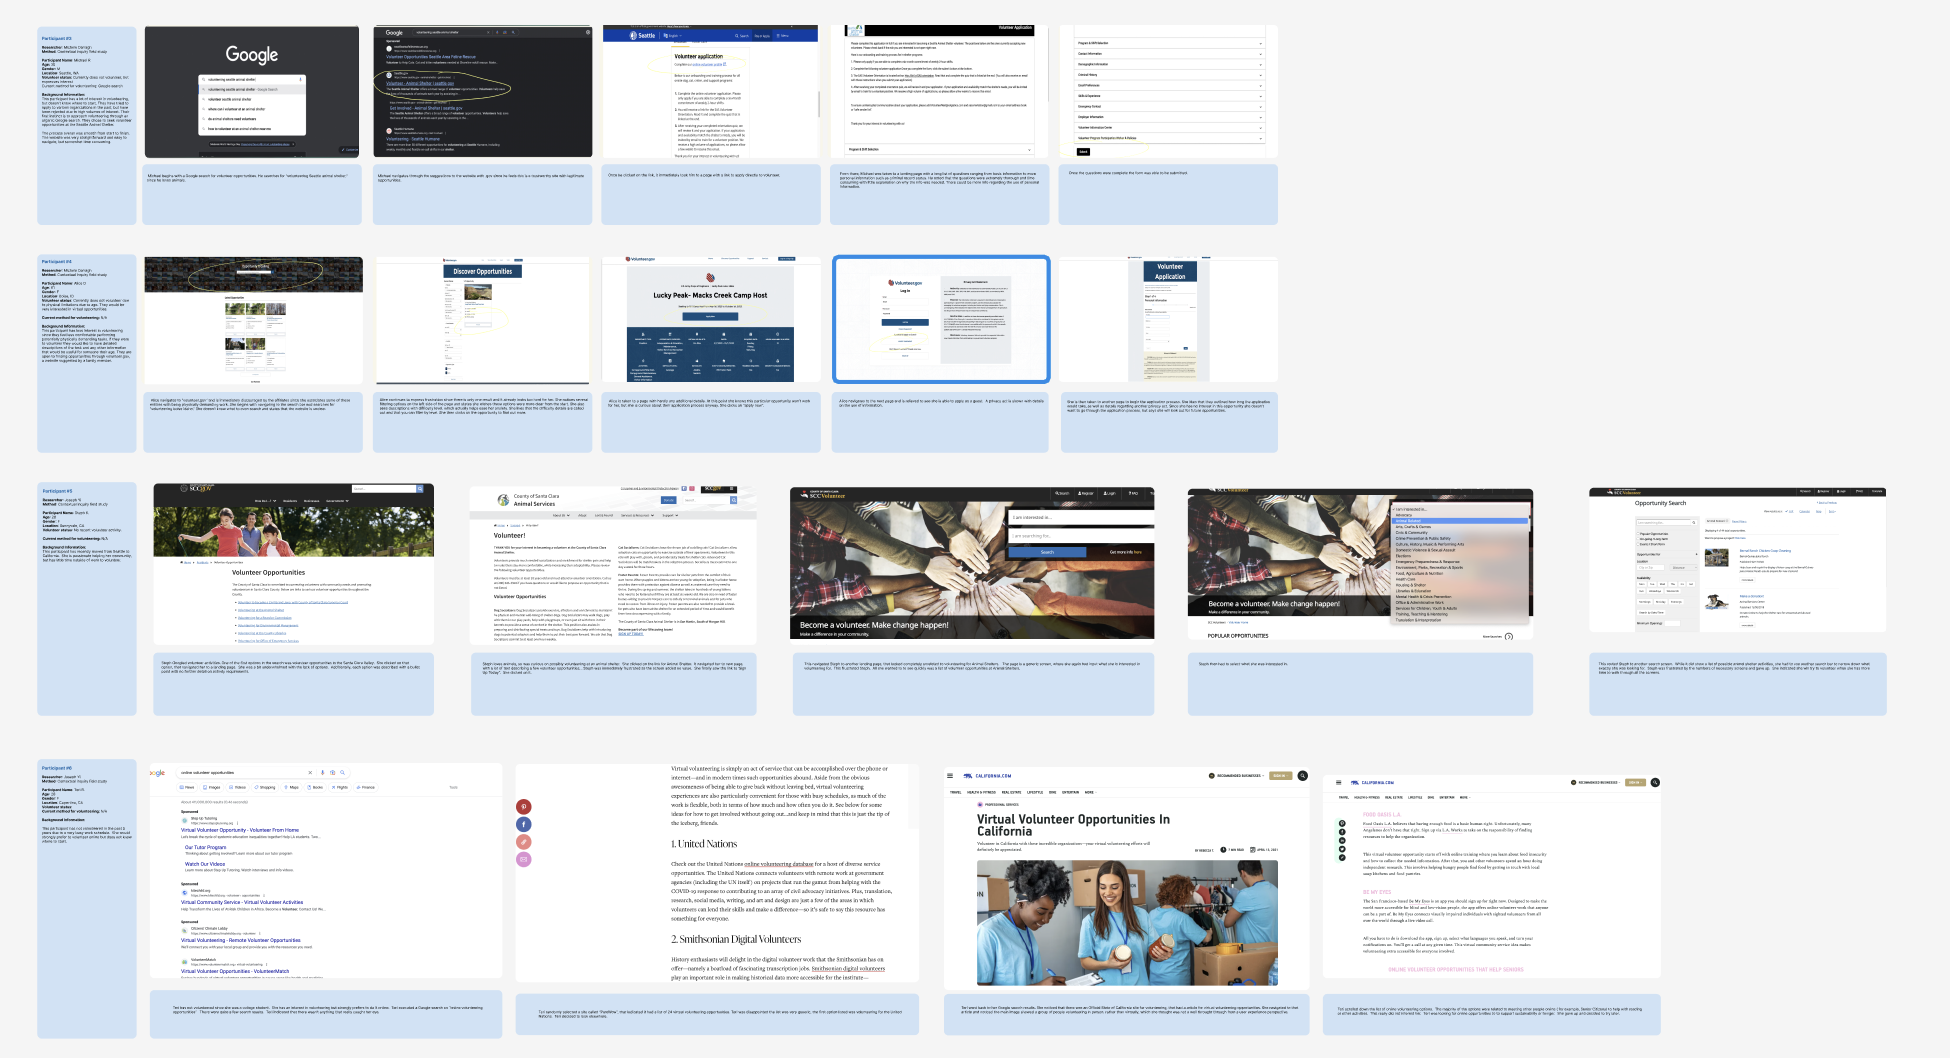
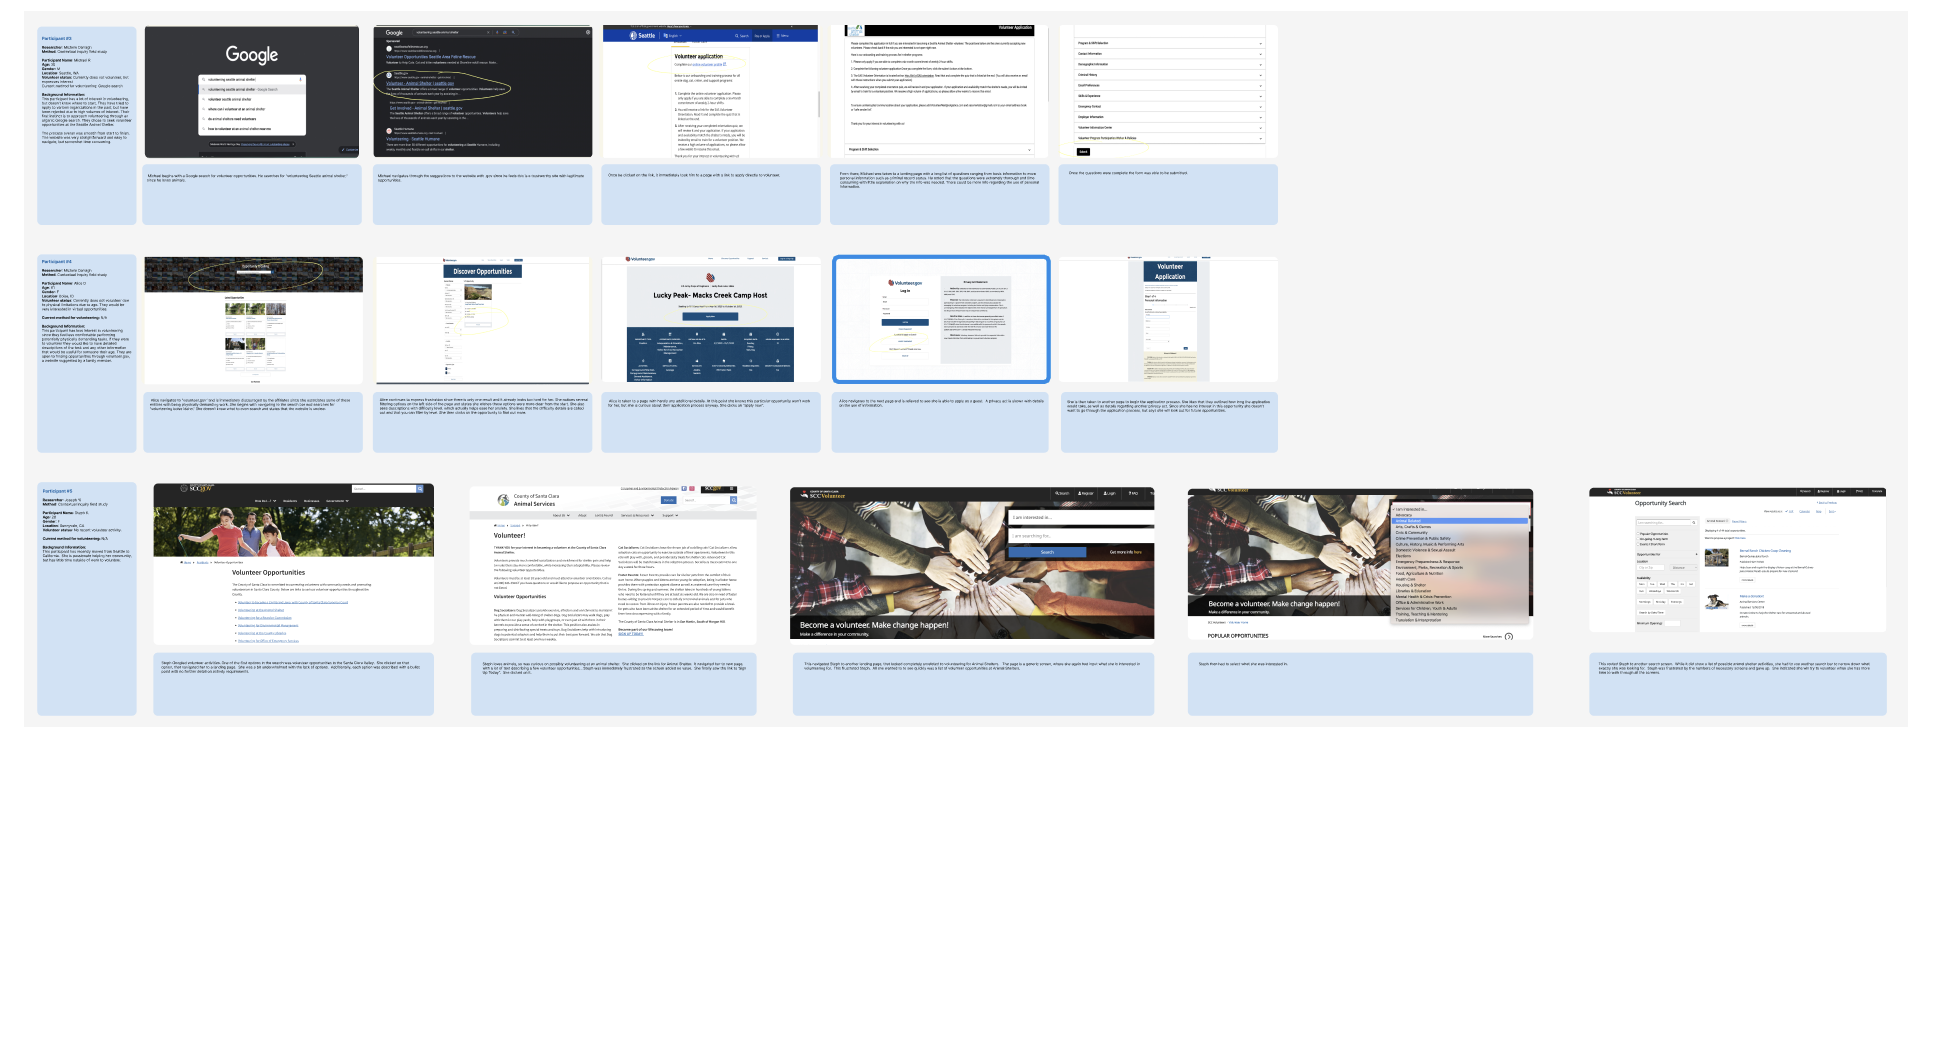
adjustments

diff --git a/index.html b/index.html
@@ -61,6 +61,39 @@
           </div>
       </div>
     </div>
+
+    <div class="tile-component">
+      <div class="project-type ux">
+        USER STUDY
+      </div>
+      <div class="tile">
+          <div class="tile-title">
+            Improving the Volunteering Process
+          </div>
+          <div class="tile-subtitle">
+            10 week UX research study
+          </div>
+  
+          <div class="row">
+            <div class="column">
+              <div class="column-container">
+                <a href="https://angeyu.github.io/volunteering">
+                  <img src="proposed.png" alt="proposed user flow" style="width: 100%; border: 1px solid;">
+                </a> 
+              </div>
+            </div>
+        
+            <div class="column">
+              <div class="column-container">
+                <h3>Let's make community involvement easier than ever!</h3>
+                <p>Uncovering the reasons why people don't volunteer despite their intentions to, and what might help.</p>
+                <a href="https://angeyu.github.io/volunteering">See more</a>
+              </div>
+            </div>
+          </div>
+      </div>
+    </div>
+
     <div class="tile-component">
       <div class="project-type data">
         DATA VISUALIZATION
@@ -86,7 +119,7 @@
                 <p>An interactive tool for HIV researchers. This dashboard summarizes the current landscape in HIV research by categorizing multilevel determinants.</p>
                 <h3>Tools</h3>
                 <p>Power BI, SQL</p>
-                <a href="https://hivimpsci.northwestern.edu/dashboard/" target="_blank">See more</a>
+                <a href="https://hivimpsci.northwestern.edu/dashboard/" target="blank">See more</a>
               </div>
             </div>
           </div>
